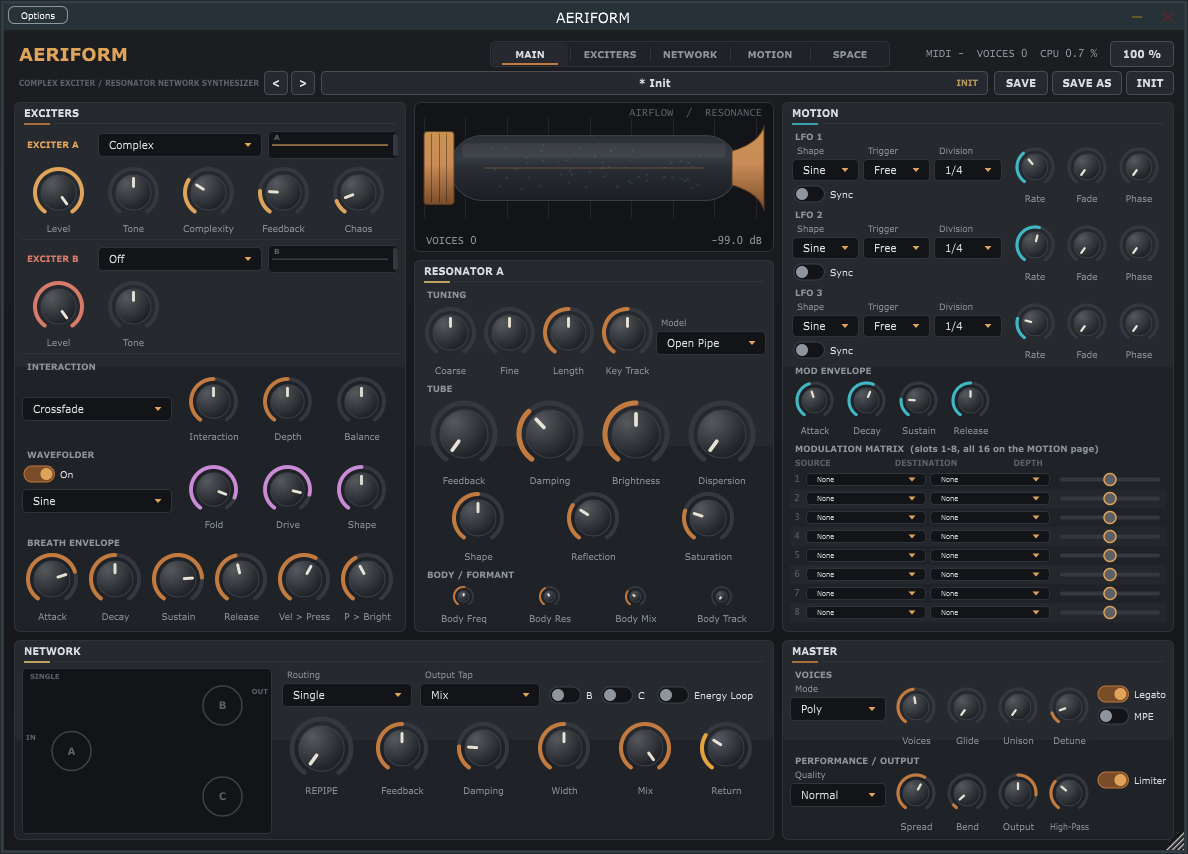
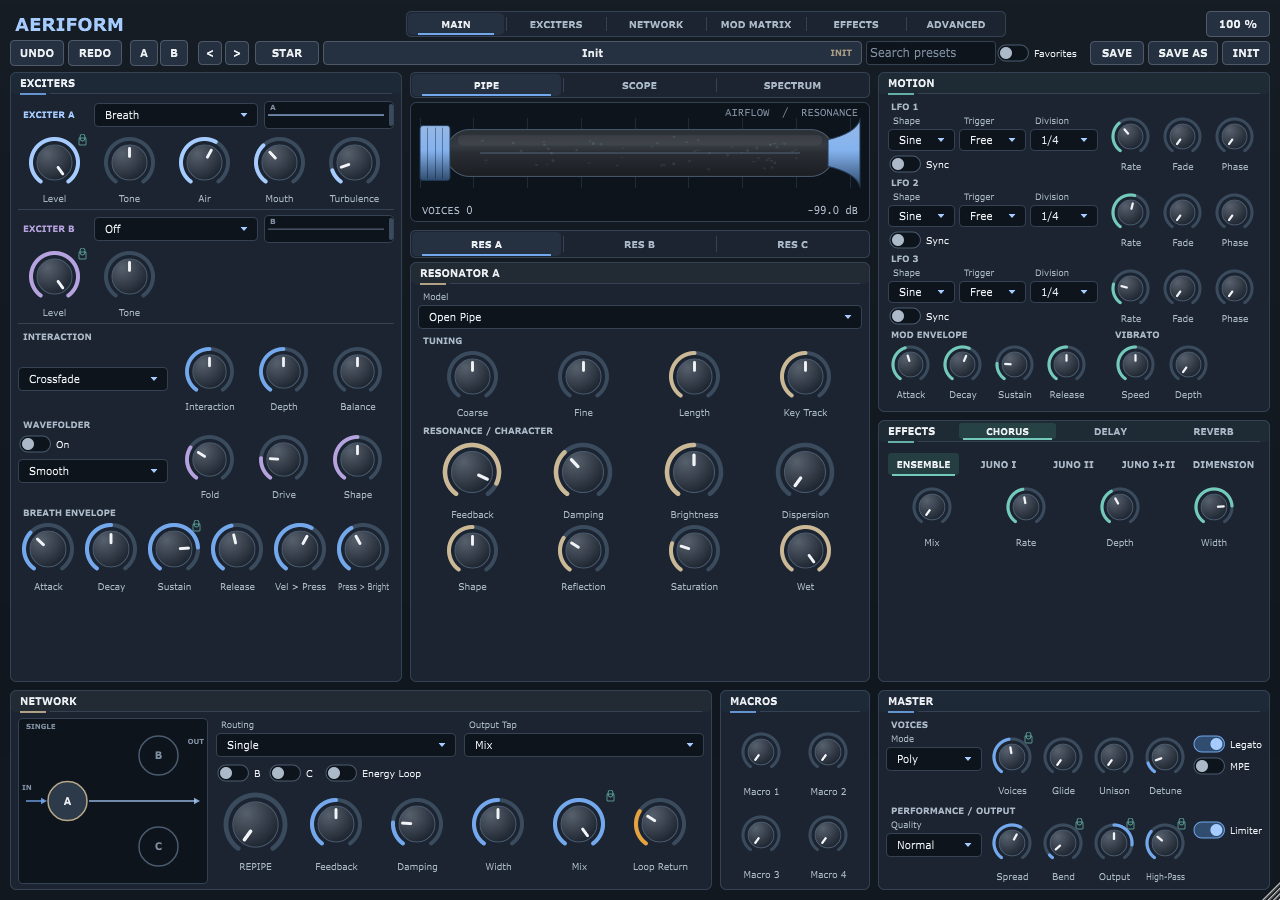
Bump version to v3.2.0, update CHANGELOG and main screenshot

diff --git a/CHANGELOG.md b/CHANGELOG.md
@@ -1,5 +1,46 @@
 # Changelog
 
+## v3.2.0
+
+A major audio processing and sound design release introducing authentic Roland Juno BBD chorus emulation, expanded algorithmic reverbs, dedicated Motion vibrato controls, pure waveguide bore radiation without dry exciter bleed, and critical DSP repairs across resonant delays, shimmer reverb, FM/sync interaction, and vocal breath formants.
+
+### Authentic Roland Juno BBD Chorus Emulation
+- **5 Chorus Algorithms**:
+  - `Ensemble`: Classic multi-voice rich stereo ensemble chorus.
+  - `Juno I`: Slow, deep lush swirl (0.513 Hz LFO, 1.66 ms to 4.21 ms hyperbolic delay sweep).
+  - `Juno II`: Faster, shimmering vibrato chorus (0.863 Hz LFO, 1.66 ms to 3.51 ms hyperbolic delay sweep).
+  - `Juno I+II`: Dual-LFO non-linear interaction mode (0.513 Hz + 1.00 Hz compound modulation).
+  - `Dimension`: Static spatial widening delay with subtle anti-phase pitch movement.
+- **Circuit-Accurate BBD Modeling**: Dual bucket-brigade delay lines with exact anti-phase right-channel modulation, hyperbolic clock sweeping ($\tau(t) = 1 / f_{\text{clock}}(t)$), pre-de-emphasis (7.2 kHz 2-pole lowpass, 2.3 kHz pre-emphasis shelf), post-BBD reconstruction filtering, and soft analog overdrive saturation.
+- **SpacePanel UI Strip**: Integrated 5-button segmented algorithm selector with immediate visual feedback and automatable parameter attachment.
+
+### Expanded Algorithmic Reverbs
+- **3 Spatial Engines**:
+  - `Hall`: 8-delay-line Feedback Delay Network (FDN) with orthogonal Householder feedback matrix, prime delay lengths, Schroeder allpass diffusers, and per-line high-frequency absorption.
+  - `Room`: Densely coupled dual-room chamber with distinct early reflection taps and lively diffuse decay.
+  - `Plate`: Classic continuous Dattorro plate tank with input diffusers, cross-coupled delay loops, inner allpasses, and damping decay.
+- **Click-Free Transitions**: Equal-power 20 ms crossfader during algorithm switches.
+
+### Dedicated Vibrato Controls (Motion Panel)
+- **Vibrato Speed (`vib_rate`)**: Continuous rate from 0.5 Hz to 15.0 Hz (default 5.0 Hz).
+- **Vibrato Depth (`vib_depth`)**: 0.0% to 100.0% depth (up to $\pm 50$ cents peak excursion).
+- **Per-Voice Sinusoidal Phase**: Smooth per-voice accumulator starting at zero on note attack and flowing seamlessly through legato phrasing. Modulates note pitch across both exciter models and physical resonator waveguide lengths simultaneously.
+- **UI Integration**: Positioned directly beside the Modulation Envelope in the Motion panel with teal accents.
+
+### Pure Waveguide Resonators (Zero Dry Bleed)
+- **Acoustic Bore Radiation Output**: Fixed waveguide pipe and tube modes (`OpenPipe`, `ClosedPipe`, `DispersiveTube`, and `Comb`) to tap the radiated acoustic delay wave ($d$) rather than the mouthpiece pressure junction ($x = \text{reflected} + \text{in}$).
+- At 100% wetness, raw dry exciter impulses and waveforms are completely removed at $t=0$, leaving only the pure resonant acoustic response.
+
+### DSP Defect Repairs & Calibrations
+- **Resonant Delay**: Removed input starvation factor `(1.0 - feedback)`, added `1.2 * fastTanh` feedback saturation, and widened modal filter bandwidths for audibly sustained, rich repeats.
+- **Shimmer Reverb**: Calibrated feedback reinjection loop gain compensating for room attenuation, fixed feedback highpass filtering, and eliminated wet volume drop. Pitch-shifted octave-up tails cascade continuously.
+- **Interaction Modes**: Replaced exponential FM with textbook Phase Modulation FM ($I = 0$ to $8.5$ radians) keeping the fundamental in-tune with full Bessel harmonic sidebands; added unison pitch sweep to Hard Sync; implemented peak/trough full-wave envelope selection for Min/Max.
+- **Breath Articulation**: Implemented 3-formant resonant filter bank tracking natural vowel formant spaces ("oo" -> "ah" -> "ee") plus adjustable high-frequency embouchure air edge.
+
+### Verification & Compatibility
+- Preserves all existing factory presets and parameter layouts (all new parameters default off or neutral).
+- Full automated test suite: 162 test suites, 30,802,472 assertions, 0 failures.
+
 ## v3.1.0
 
 This release introduces an overhauled, streamlined user interface, four dedicated macro controls with full modulation routing, right-click macro mapping, and visual polish across the synth.
